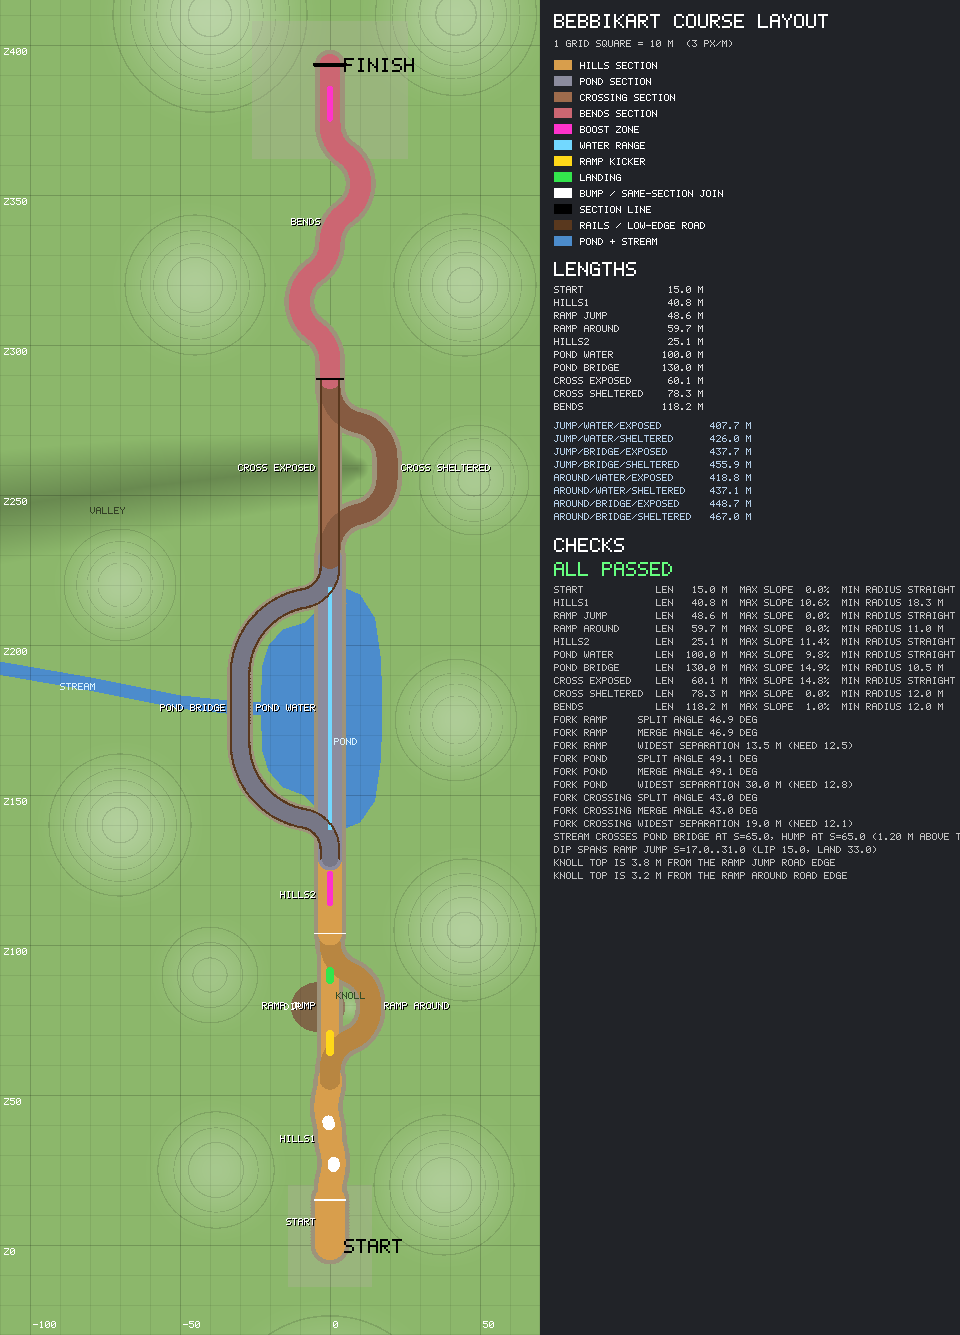
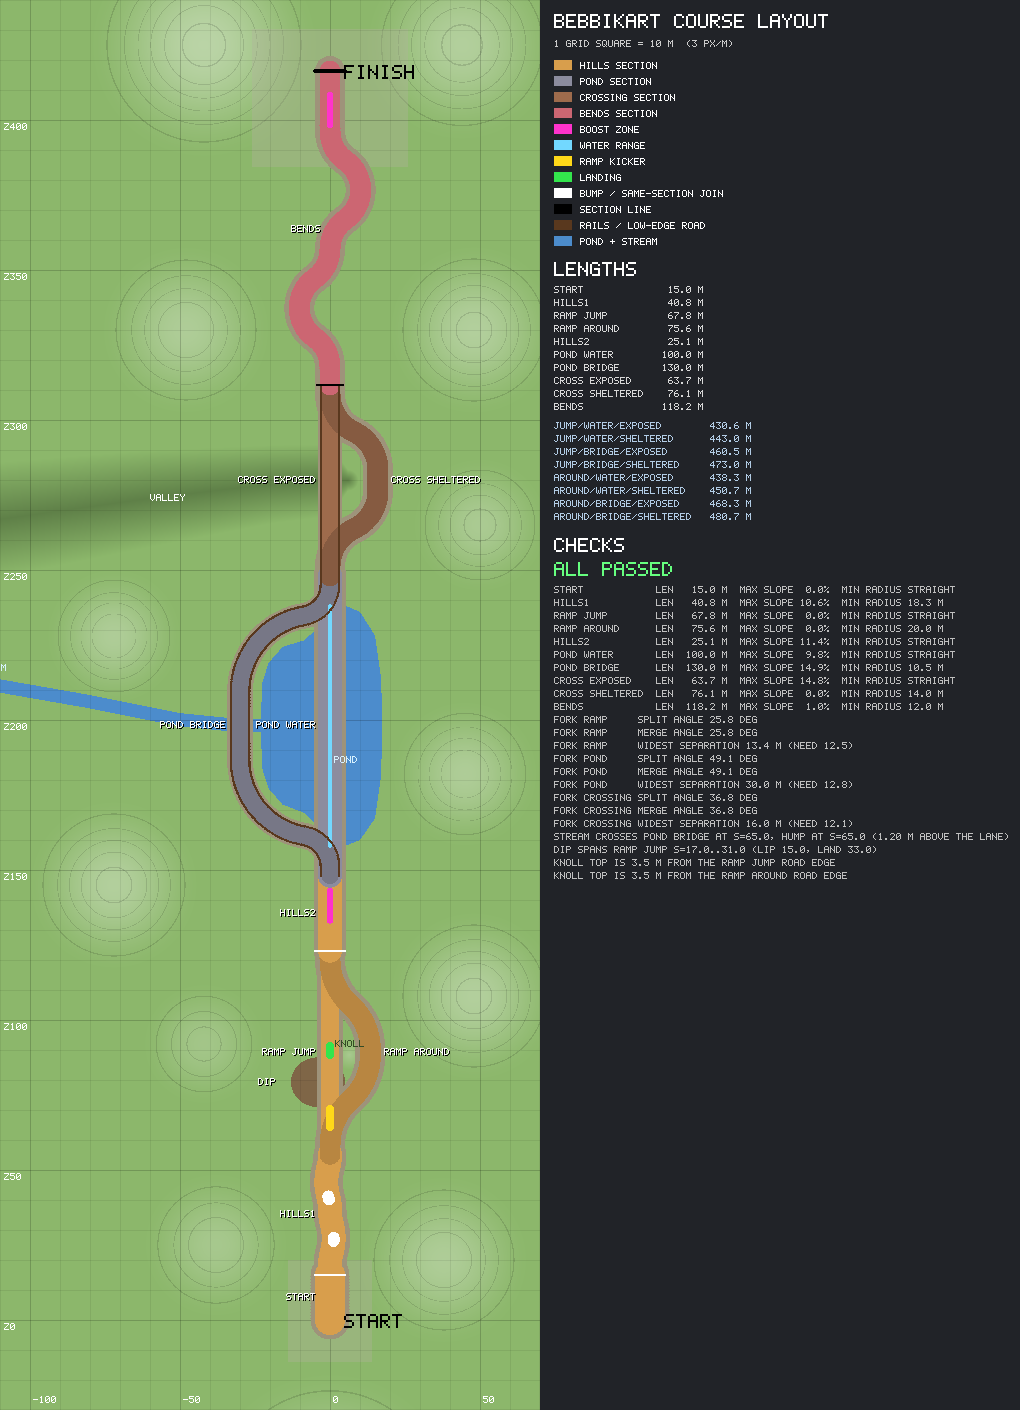
Redesign course layout with Y-split forks and add layout map checks
Routes are now built from straights and constant-radius arcs, so radii are
exact and every fork is a clean Y-split with a shared straight stub. Terrain
features (pond, stream, jump dip, knoll, valley, hills) live in
world/landscape.gd, anchored to the course. tools/layout_map.gd draws the
top-down map and fails on spacing, crossing, slope, curvature, junction,
fork-angle and landscape problems. Plugins enabled in project.godot.
Balance snapshot updated from the sweep.

diff --git a/apps/game/README.md b/apps/game/README.md
@@ -52,7 +52,7 @@ Sweep flags:
 
 - `sim/`: the simulation. Plain `RefCounted` GDScript with no scene nodes, so it runs headless in the sweep.
   - `tuning.gd`: every constant.
-  - `route.gd`, `course.gd`: the course and all fork variants, with section lines, boost zones and widths.
+  - `route.gd`, `course.gd`: the course and all fork variants, with section lines, boost zones and widths. Routes are drawn from straights and constant-radius arcs, and every fork is a Y-split with a shared 3 m stub.
   - `weather.gd`: the weather state machine.
   - `builds.gd`: stars → stats, plus random builds.
   - `racer.gd`: racer state (s/d/v/vy), autopilot, fails, boost, events, splits and traces, timed in sim ticks.
@@ -68,35 +68,39 @@ Sweep flags:
   - `camera_rig.gd`: simple follow, wide and fork cameras.
 - `main.gd` / `main.tscn`: wires net → sim → views and draws the debug overlay.
 - `tools/sweep.gd`: the headless balance sweep.
+- `tools/layout_map.gd`: top-down layout map (`docs/layout_map.png`) plus geometry checks (spacing, crossings, slopes, curvature, junctions, fork angles, terrain features). Exits 1 on failure: `godot --headless --path . --script res://tools/layout_map.gd`.
+- `world/landscape.gd`: the terrain features each fork alternative is built around (pond, inflow stream, jump dip, knoll, valley, hills), anchored to the course.
 
 ## Balance snapshot
 
-Results from `sweep --builds=60 --seeds=2`, solo racers with perfect boosts.
+Results from `sweep --builds=60 --seeds=2`, solo racers with perfect boosts, on the 2026-10-31 course redesign (arc-built routes, Y-split forks).
+
+Route lengths: jump 67.8 m / around 75.6 m, water 100.0 m / bridge 130.0 m, exposed 63.7 m / sheltered 76.1 m. Full path 430.6 m (jump/water/exposed) to 480.7 m (around/bridge/sheltered).
 
 **Default build** (balanced style, around/bridge/sheltered):
 
 | Weather | Time |
 |---|---|
-| calm | 32.2 s |
-| rain | 37.0 s |
-| wind | 35.1 s |
-| storm | 40.5 s |
+| calm | 31.6 s |
+| rain | 37.7 s |
+| wind | 34.6 s |
+| storm | 41.2 s |
 
-**Driving style, calm:** careful 35.1 s, balanced 32.2 s, daring 29.7 s.
+**Driving style, calm:** careful 34.6 s, balanced 31.6 s, daring 29.3 s.
 
 **Random builds:**
 
 | Weather | Median | Best–worst | Fail rate |
 |---|---|---|---|
-| calm | 31.9 s | 27.9–39.1 s | 0% |
-| rain | 36.6 s | — | 0.8% |
-| wind | 35.9 s | — | 3.3% |
-| storm | 40.0 s | — | 11.7% |
+| calm | 32.2 s | 27.8–39.1 s | 0% |
+| rain | 37.0 s | 29.7–49.7 s | 4.2% |
+| wind | 36.8 s | 31.6–45.2 s | 4.2% |
+| storm | 40.5 s | 34.1–56.9 s | 13.3% |
 
 **Forks:**
-- **Ramp:** jumping is worse at jump 0–3 (+0.4–0.9 s) and better at jump 4–5 (about −1 s).
-- **Pond:** water wins from water 1 star upward (−0.4 to −3.7 s calm), and wins by more in rain and storm.
-- **Crossing:** the exposed route is about 1.8 s faster in calm. In wind, sheltered wins at stability 0.
+- **Ramp:** jumping is worse at jump 0–3 (+0.3–0.9 s) and better at jump 4–5 (about −1 s).
+- **Pond:** water loses at water 0–1 (+0.6–1.4 s calm), is about even at 2 and wins from 3 upward (−1.7 to −2.8 s calm). It wins at every level in rain and storm.
+- **Crossing:** the exposed route is about 1.4–2.3 s faster in calm. In wind, sheltered wins at stability 0 (+1.0 s) and it is roughly even at 1–3.
 
 ## Known issues and deviations
 
